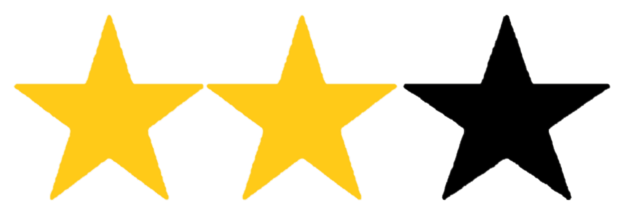
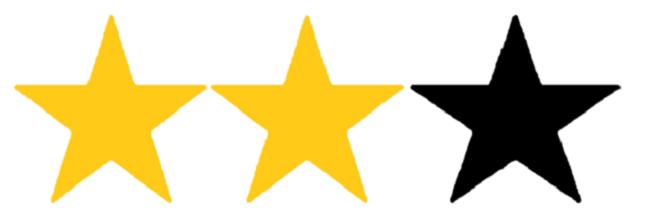
couleur

diff --git a/calendar.js b/calendar.js
@@ -41,7 +41,7 @@ var SiteId=location.hash.substring(1,10);
 
 // --------------------------------------TEMPLATES----------------------------------------------------------------
 
-var template_room =`<button onclick="RoomSelect(%RoomId%)" id="%RoomId%"  type="button" data-color="%RoomColor%"  style="background-color:%RoomColor%;" class="btn text-white border mx-1 col-3 h-100 togglesalle">%RoomName%</button>`;
+var template_room =`<button onclick="RoomSelect(%RoomId%)" id="%RoomId%"  type="button" data-color="%RoomColor%"  style="background-color:%RoomColor%; opacity:0.5;" class="btn text-white border mx-2 col-3 h-100 togglesalle">%RoomName%</button>`;
 
 var template_rapport=`<div class="mb-2">
                             <div class="h4">%MissionName%</div>
@@ -243,22 +243,16 @@ function FillGameSessions_List(){
         var icone;
 
         switch (success){
-            case 1 : icone = `<img src="./css/img/3stars.png" class="star">
-          `;
-            
-                
+            case 0 : icone = `<img src="./css/img/NOstar.png" class="star">`;
             break;
-            case 2 : icone =`<img src="./css/img/2stars.png"class="twostar">
-          `;
-                
-            case 3 : icone =`<img src="./css/img/2stars.png"class="star">
-           `;
-                
+            case 1 : icone =`<img src="./css/img/ZEROstar.png" class="star">`;
             break;
-            case 4 : icone=`<img src="./css/img/2stars.png"class="star">
-           `;
-                
+            case 2 : icone =`<img src="./css/img/ONEstar.png" class="star">`;
             break;
+            case 3 : icone=`<img src="./css/img/TWOstar.png" class="star">`;
+            break;
+            case 4 : icone=`<img src="./css/img/THREEstar.png" class="star">`;
+             break;
         }
 
         //on appelle une fonction qui transforme le timesptamp de la BDD
@@ -268,7 +262,7 @@ function FillGameSessions_List(){
         //on boucle sur le tableau des Missionions avec l'Id afin de récupère les codenames
         for (var j=0;j<tableau_Missions.length;j++){
             if(tableau_GameSessions[i].MissionId == tableau_Missions[j].Id){
-                tableau['title']="<div>"+tableau_GameSessions[i].StartDate.substring(11,16)+" - "+min+" - "+icone+" - "+tableau_Missions[j].CodeName+"</div>";
+                tableau['title']="<div class='d-flex justify-content-start flex-wrap'>"+"<div >"+tableau_GameSessions[i].StartDate.substring(11,16)+"</div>"+" - "+"<div>"+min+"</div>"+" - "+"<figure>"+icone+"</figure>"+" - "+"<div>"+tableau_Missions[j].CodeName+"</div>"+"</div>";
             }
         }
 
@@ -490,8 +484,8 @@ function NmbrePourcentageGame (MissionId,MinDuration){
         if(tableau_rapport[i].MissionId==MissionId && tableau_rapport[i].Duration>=MinDuration){
             
             tableau_pourcentage['Nbremission']+=1;
-            DurationTotale+=tableau_rapport[i].Duration;
-            switch (tableau_rapport[i].Succes) {
+            DurationTotale+=parseInt(tableau_rapport[i].Duration);
+            switch (parseInt(tableau_rapport[i].Succes)) {
                 case 1 :
                     NbreMissionSuperSucces+=1;
                 break;
@@ -551,7 +545,7 @@ function NmbrePourcentageGameYear (MissionId,MinDuration){
                     if(tableau_YearRapport[i].RoomId[j].RoomId!=RoomSelected)continue;
                     if(tableau_YearRapport[i].RoomId[j].Duration>=MinDuration){
                         tableau_pourcentageYear['Nbremission']+=1;
-                        switch(tableau_YearRapport[i].RoomId[j].Succes){
+                        switch(parseInt(tableau_YearRapport[i].RoomId[j].Succes)){
                             case 1 :NbreMissionSuperSucces+=1;
                             break;
                             case 2 : NbreMissionSucces+=1;
@@ -568,7 +562,7 @@ function NmbrePourcentageGameYear (MissionId,MinDuration){
                 else {
                     if(tableau_YearRapport[i].RoomId[j].Duration>=MinDuration){
                         tableau_pourcentageYear['Nbremission']+=1;
-                        switch(tableau_YearRapport[i].RoomId[j].Succes){
+                        switch(parseInt(tableau_YearRapport[i].RoomId[j].Succes)){
                             case 1 :NbreMissionSuperSucces+=1;
                             break;
                             case 2 : NbreMissionSucces+=1;

diff --git a/calendar.html b/calendar.html
@@ -32,7 +32,7 @@
         <div class="d-flex col-8 justify-content-center">
             <div class="d-flex  align-items-center">
               <div class="col-2">SALLE : </div>
-              <button onclick="RoomSelect()" class="col-2 h-100 btn btn-light border togglesalle mx-1 scaling" id="toutes">Toutes</button>
+              <button onclick="RoomSelect()" class="col-2 h-100 btn btn-light border togglesalle mx-2 scaling" style="opacity:0.5" id="toutes">Toutes</button>
               <div id="RoomSelected" class="h-100 d-flex align-items-start"></div>                   
             </div>
         </div>

diff --git a/css/style.css b/css/style.css
@@ -106,14 +106,20 @@ a:hover{
 
 .scaling{
     transform : scale(1.1);
+    font-weight: bold;
+    opacity:1 !important;
+
 }
 
 .star{
-    height: 20%;
-    width: 20%;
+    height: 100%;
+    width: 100%;
+    object-fit: contain;
 }
 
-.twostar{
-    height: 40%;
-    width: 40%;
+figure{
+    height: 20px;
+    width: 40px;
+    margin: 0;
+    padding: 0;
 }
